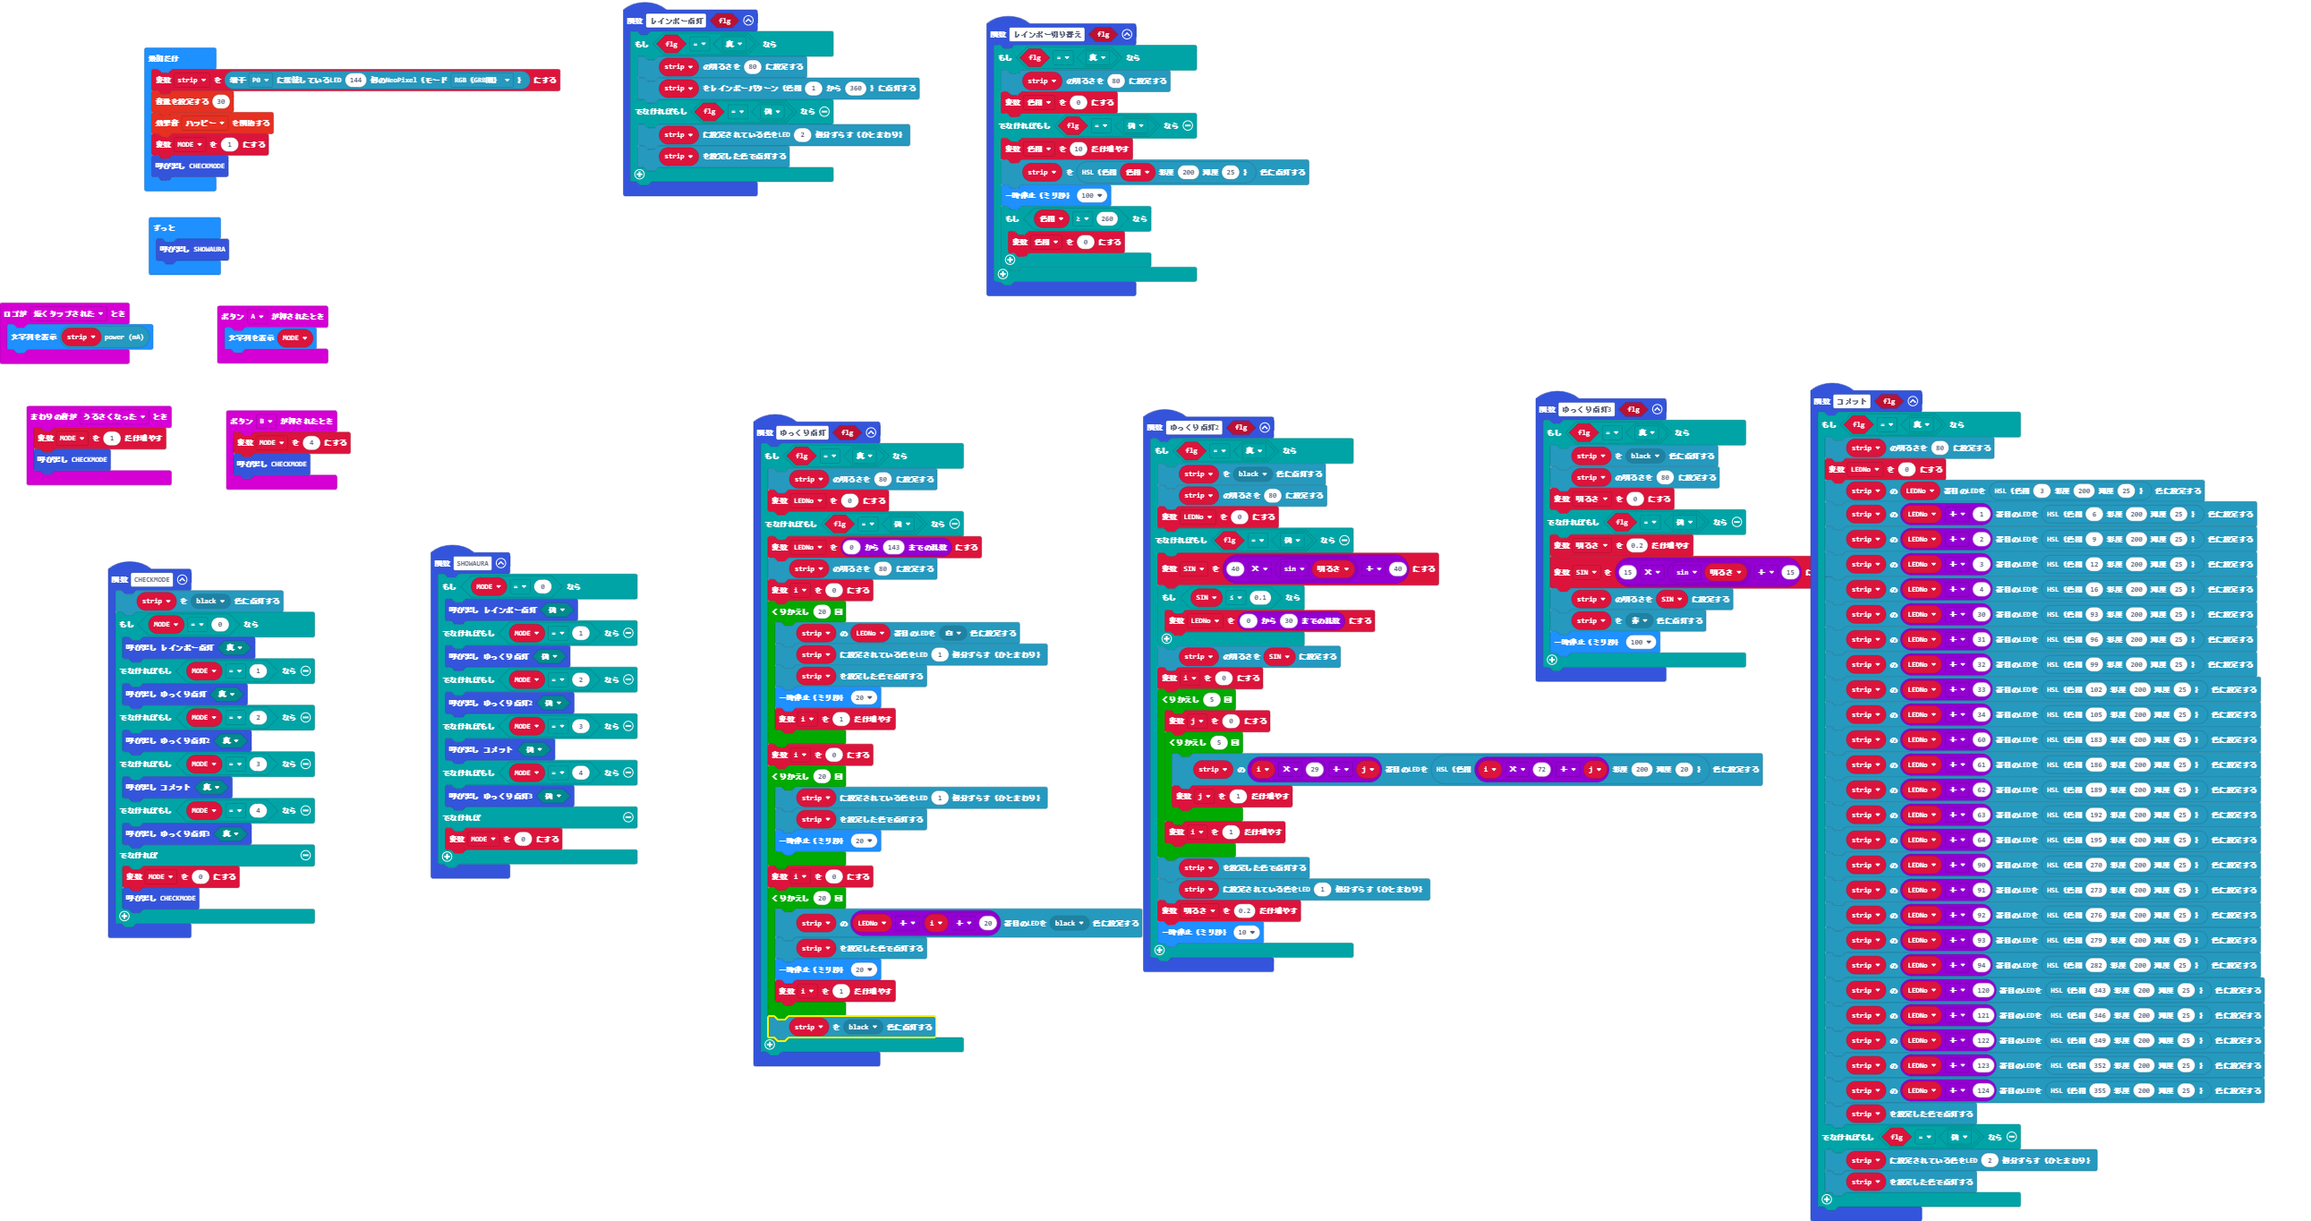
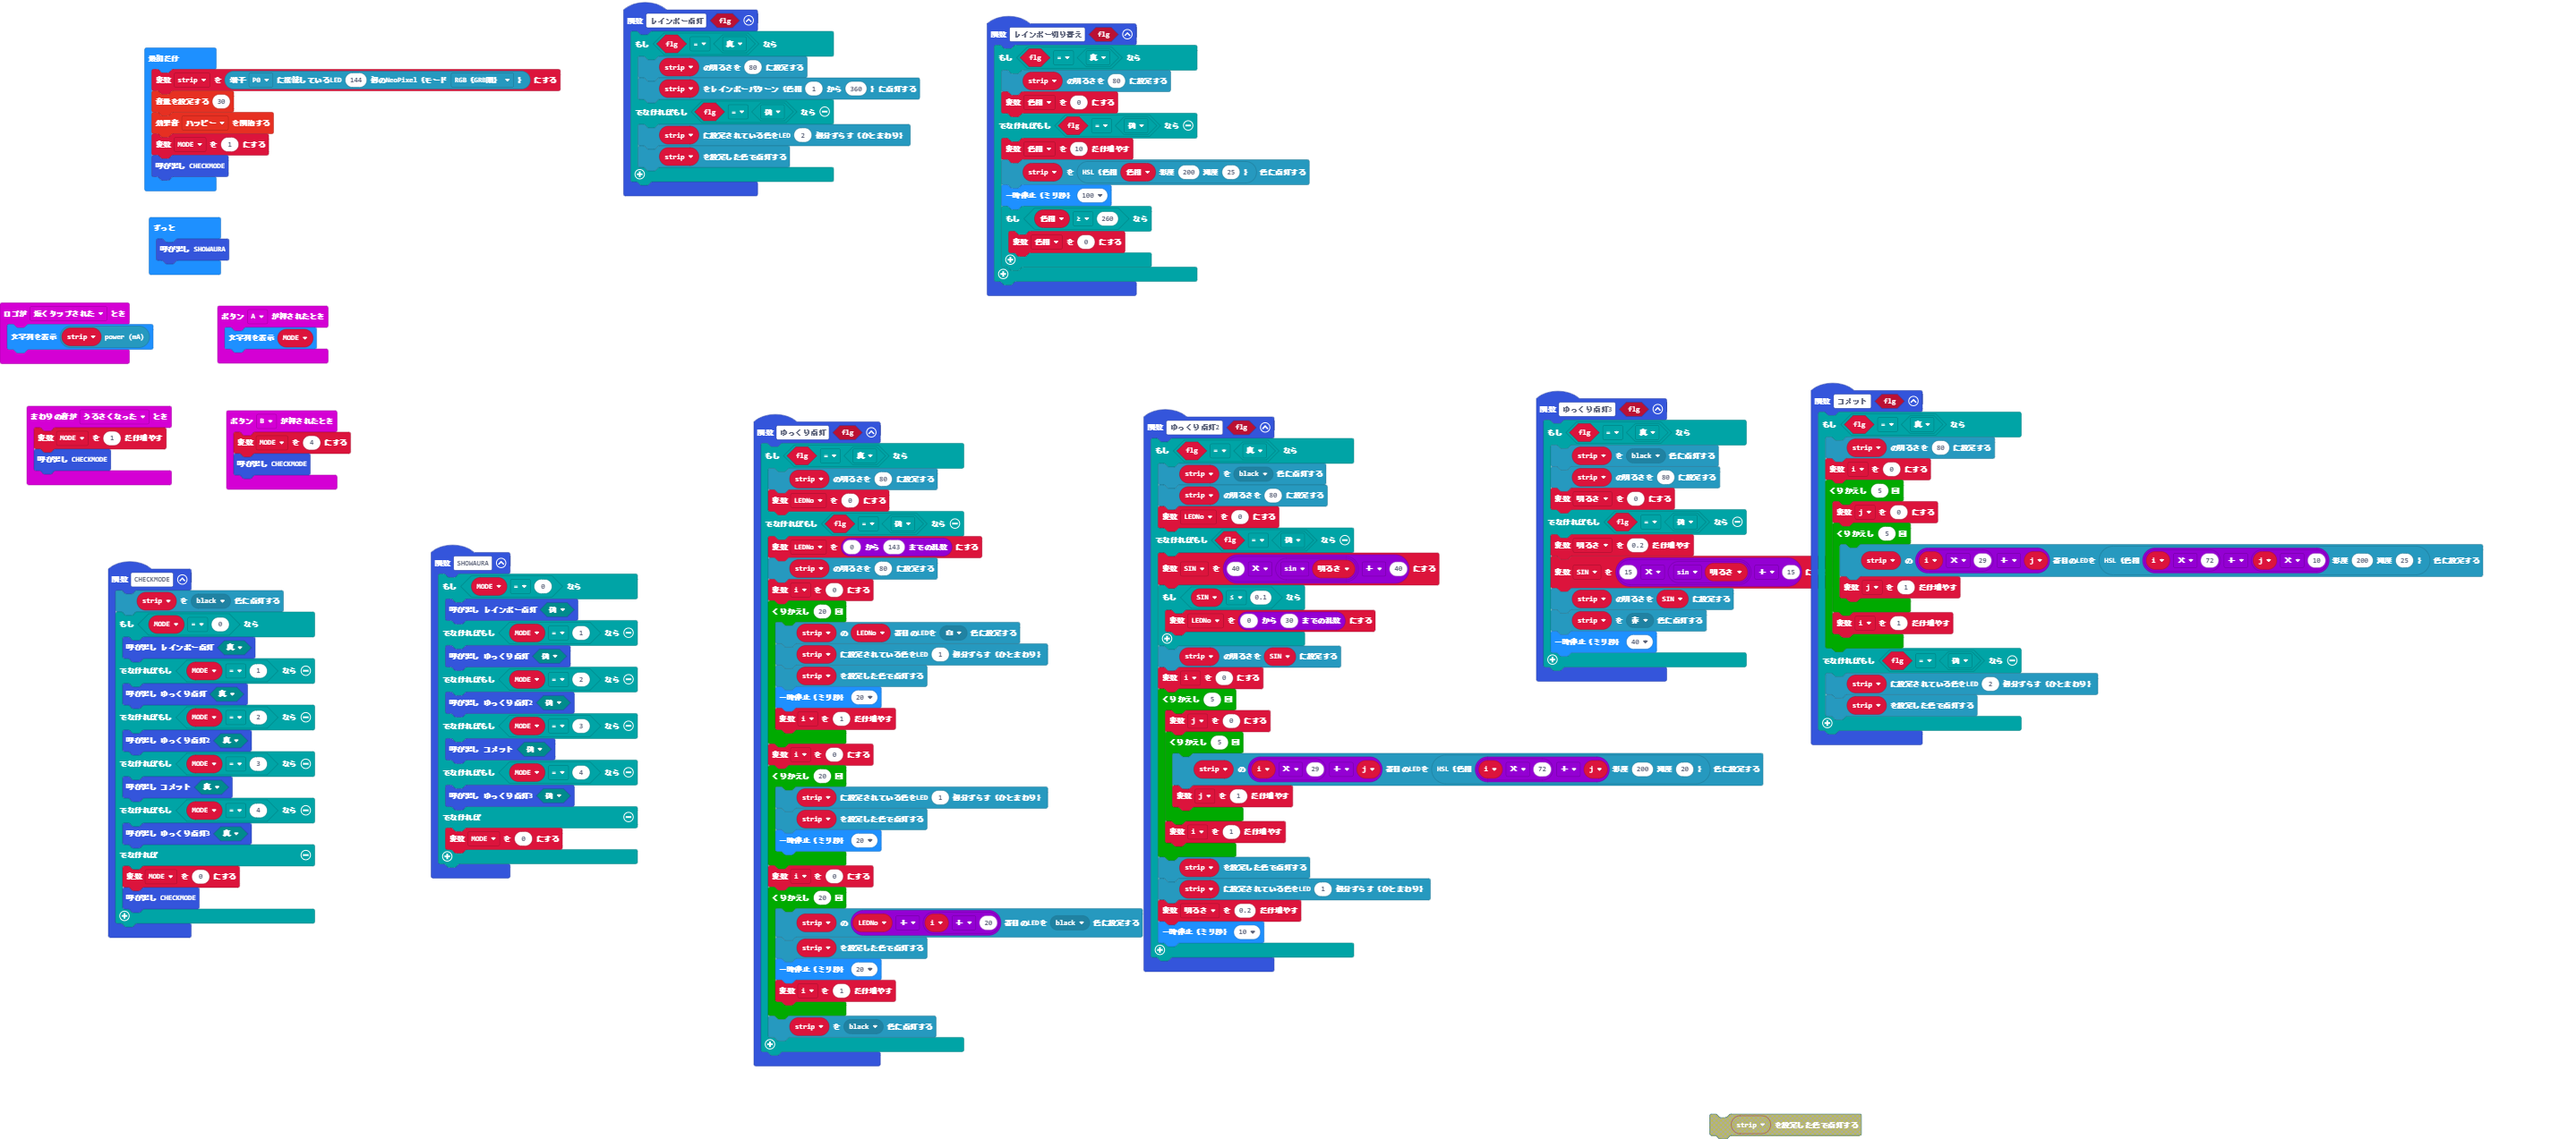
更新 main.blocks, main.ts

diff --git a/main.ts b/main.ts
@@ -78,33 +78,15 @@ input.onButtonPressed(Button.A, function () {
 function コメット (flg: boolean) {
     if (flg == true) {
         strip.setBrightness(80)
-        LEDNo = 0
-        strip.setPixelColor(LEDNo, neopixel.hsl(3, 200, 25))
-        strip.setPixelColor(LEDNo + 1, neopixel.hsl(6, 200, 25))
-        strip.setPixelColor(LEDNo + 2, neopixel.hsl(9, 200, 25))
-        strip.setPixelColor(LEDNo + 3, neopixel.hsl(12, 200, 25))
-        strip.setPixelColor(LEDNo + 4, neopixel.hsl(16, 200, 25))
-        strip.setPixelColor(LEDNo + 30, neopixel.hsl(93, 200, 25))
-        strip.setPixelColor(LEDNo + 31, neopixel.hsl(96, 200, 25))
-        strip.setPixelColor(LEDNo + 32, neopixel.hsl(99, 200, 25))
-        strip.setPixelColor(LEDNo + 33, neopixel.hsl(102, 200, 25))
-        strip.setPixelColor(LEDNo + 34, neopixel.hsl(105, 200, 25))
-        strip.setPixelColor(LEDNo + 60, neopixel.hsl(183, 200, 25))
-        strip.setPixelColor(LEDNo + 61, neopixel.hsl(186, 200, 25))
-        strip.setPixelColor(LEDNo + 62, neopixel.hsl(189, 200, 25))
-        strip.setPixelColor(LEDNo + 63, neopixel.hsl(192, 200, 25))
-        strip.setPixelColor(LEDNo + 64, neopixel.hsl(195, 200, 25))
-        strip.setPixelColor(LEDNo + 90, neopixel.hsl(270, 200, 25))
-        strip.setPixelColor(LEDNo + 91, neopixel.hsl(273, 200, 25))
-        strip.setPixelColor(LEDNo + 92, neopixel.hsl(276, 200, 25))
-        strip.setPixelColor(LEDNo + 93, neopixel.hsl(279, 200, 25))
-        strip.setPixelColor(LEDNo + 94, neopixel.hsl(282, 200, 25))
-        strip.setPixelColor(LEDNo + 120, neopixel.hsl(343, 200, 25))
-        strip.setPixelColor(LEDNo + 121, neopixel.hsl(346, 200, 25))
-        strip.setPixelColor(LEDNo + 122, neopixel.hsl(349, 200, 25))
-        strip.setPixelColor(LEDNo + 123, neopixel.hsl(352, 200, 25))
-        strip.setPixelColor(LEDNo + 124, neopixel.hsl(355, 200, 25))
-        strip.show()
+        i = 0
+        for (let index = 0; index < 5; index++) {
+            j = 0
+            for (let index = 0; index < 5; index++) {
+                strip.setPixelColor(i * 29 + j, neopixel.hsl(i * 72 + j * 10, 200, 25))
+                j += 1
+            }
+            i += 1
+        }
     } else if (flg == false) {
         strip.rotate(2)
         strip.show()
@@ -120,7 +102,7 @@ function ゆっくり点灯3 (flg: boolean) {
         SIN = 15 * Math.sin(明るさ) + 15
         strip.setBrightness(SIN)
         strip.showColor(neopixel.colors(NeoPixelColors.Red))
-        basic.pause(100)
+        basic.pause(40)
     }
 }
 input.onSound(DetectedSound.Loud, function () {
